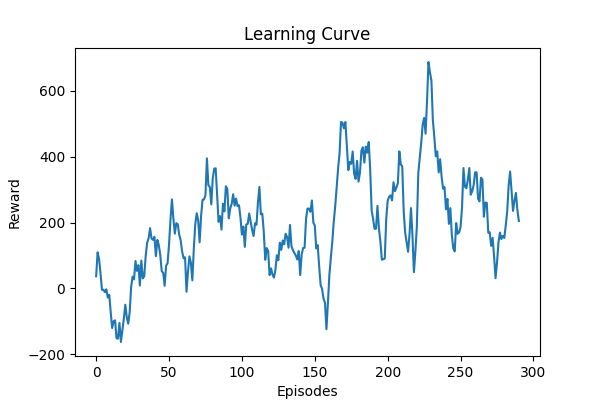
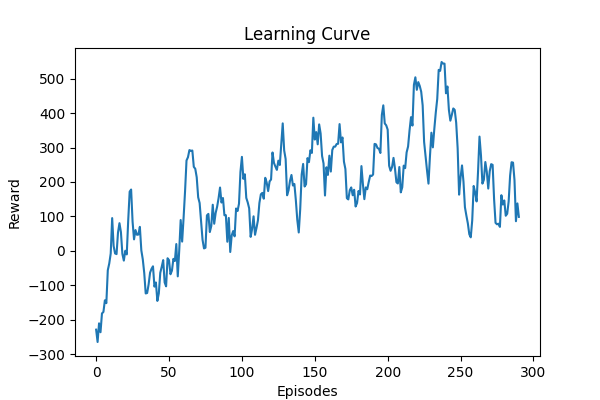
working EV RL project before final evaluation changes

diff --git a/README.md b/README.md
@@ -26,4 +26,4 @@ python train.py
 If deployed in real world:
 - Monitor waiting time
 - Monitor queue length
-- Monitor power utilization
+- Monitor power utilization 